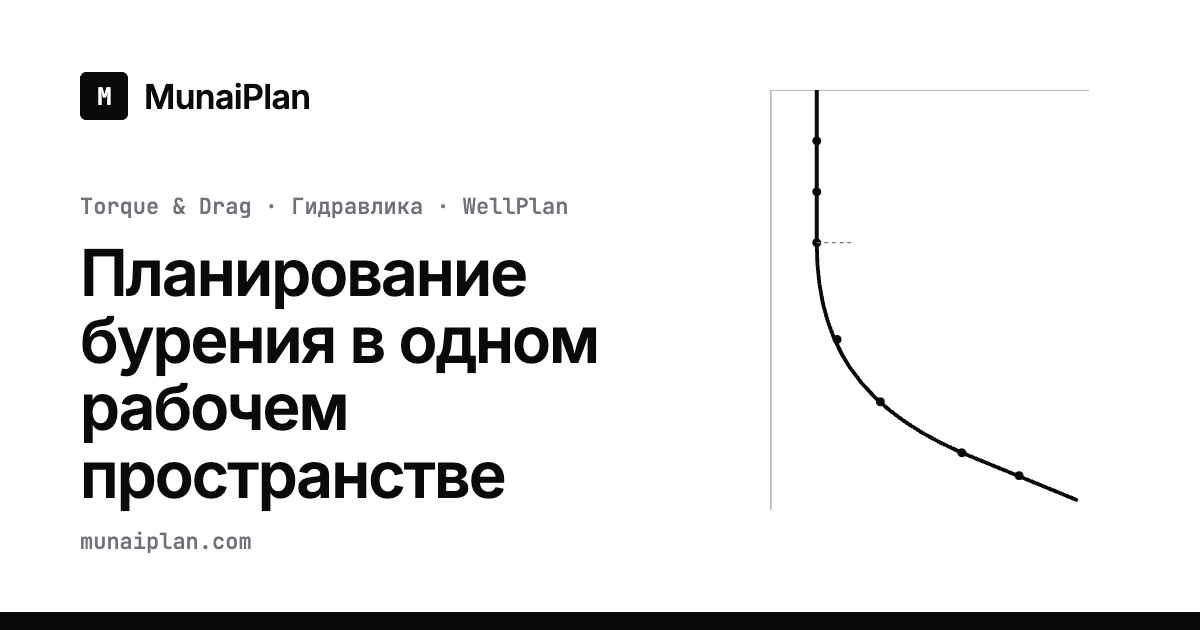
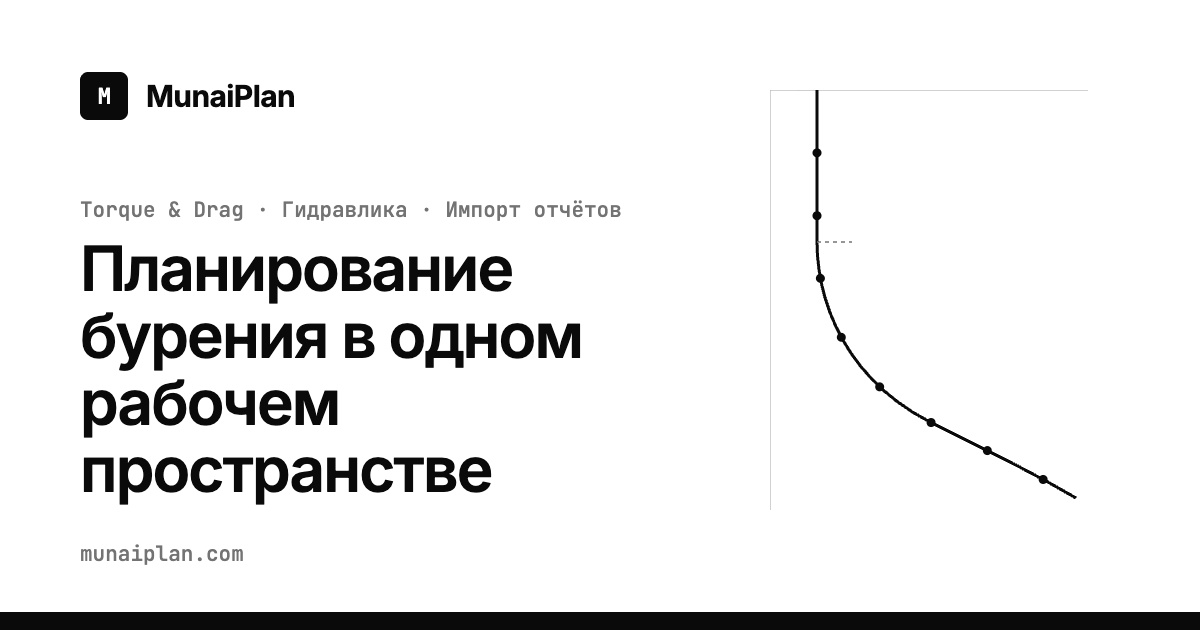
Remove the WellPlan brand from the site
Neutral wording everywhere users look (landing page, navigation, case tabs, tables, hints,
meta tags, social image). The import page keeps one factual line about the supported file
format plus a trademark disclaimer. Internal identifiers and API paths are unchanged.
scripts/og-image.html is now the source of public/og-image.png.

diff --git a/src/features/landing/LandingPage.tsx b/src/features/landing/LandingPage.tsx
@@ -18,7 +18,7 @@ const features = [
     text: 'Компания, месторождение, куст, скважина, ствол, дизайн, траектория и кейс — в одном дереве. Проводник как в IDE: поиск, контекстное меню, навигация с клавиатуры.',
   },
   {
-    title: 'Импорт из WellPlan',
+    title: 'Импорт отчётов',
     text: 'Отчёты .docx на русском и английском и экспорт инклинометрии .txt. Сначала предпросмотр, затем импорт: траектория, колонна, ствол и раствор создаются автоматически.',
   },
   {
@@ -26,12 +26,12 @@ const features = [
     text: 'Прогнозы ML-моделей по глубине: вес на крюке, момент, минимальный вес на долоте и эффективное натяжение — для спуска, подъёма, бурения ротором и ГЗД.',
   },
   {
-    title: 'Сравнение с WellPlan',
-    text: 'Для импортированных кейсов результаты WellPlan сохраняются как эталон и показываются рядом с прогнозом модели, с отклонением в процентах.',
+    title: 'Сравнение с эталоном',
+    text: 'Для импортированных кейсов результаты расчёта из исходного отчёта сохраняются как эталон и показываются рядом с прогнозом модели, с отклонением в процентах.',
   },
   {
     title: 'Гидравлика',
-    text: 'Собственный расчёт в разработке. Пока для импортированных кейсов показаны параметры гидравлики из отчёта WellPlan — для справки.',
+    text: 'Собственный расчёт в разработке. Пока для импортированных кейсов показаны параметры гидравлики из исходного отчёта — для справки.',
   },
   {
     title: 'Данные организации',
@@ -46,11 +46,11 @@ const audiences = [
   },
   {
     title: 'Операторы и буровые подрядчики Казахстана',
-    text: 'Интерфейс на русском языке и метрические единицы WellPlan: м, мм, кг/м, °.',
+    text: 'Интерфейс на русском языке и метрические единицы: м, мм, кг/м, °.',
   },
   {
-    title: 'Команды, работающие в WellPlan',
-    text: 'Отчёты переносятся импортом, а эталонные результаты остаются рядом с кейсом для сравнения.',
+    title: 'Команды с готовыми инженерными отчётами',
+    text: 'Существующие отчёты переносятся импортом, а эталонные результаты остаются рядом с кейсом для сравнения.',
   },
 ];
 
@@ -99,13 +99,13 @@ const LandingPage = () => (
       <section aria-labelledby="hero-title" className="border-b border-ink-200">
         <div className="mx-auto grid max-w-6xl items-center gap-10 px-4 py-12 sm:px-6 sm:py-16 lg:grid-cols-[1.05fr_1fr] lg:gap-14 lg:py-24">
           <div>
-            <p className="font-mono text-xs text-ink-500">Torque &amp; Drag · Гидравлика · WellPlan</p>
+            <p className="font-mono text-xs text-ink-500">Torque &amp; Drag · Гидравлика · Импорт отчётов</p>
             <h1 id="hero-title" className="mt-4 text-4xl font-semibold leading-[1.05] tracking-tight sm:text-5xl lg:text-6xl">
               Планирование бурения в одном рабочем пространстве
             </h1>
             <p className="mt-5 max-w-xl text-base leading-relaxed text-ink-700 sm:text-lg">
-              MunaiPlan хранит иерархию скважин, импортирует отчёты WellPlan и строит прогнозы Torque &amp; Drag
-              с помощью ML-моделей — рядом с эталонными результатами WellPlan.
+              MunaiPlan хранит иерархию скважин, импортирует инженерные отчёты и строит прогнозы Torque &amp; Drag
+              с помощью ML-моделей — рядом с эталонными результатами из этих отчётов.
             </p>
             <div className="mt-8 flex flex-col gap-3 sm:flex-row">
               <Link to="/auth" className={primaryCta}>Войти <FiArrowRight aria-hidden="true" /></Link>
@@ -162,8 +162,8 @@ const LandingPage = () => (
           </div>
           <div className="space-y-4 text-sm leading-relaxed text-paper/80 sm:text-base">
             <p>
-              Модели Torque &amp; Drag дают оценку, а не проверенный инженерный расчёт. Первое сравнение с результатами
-              WellPlan — это проверка согласованности, а не валидация: на части кейсов расхождение значительное.
+              Модели Torque &amp; Drag дают оценку, а не проверенный инженерный расчёт. Первое сравнение с эталонными
+              результатами из импортированных отчётов — это проверка согласованности, а не валидация: на части кейсов расхождение значительное.
             </p>
             <p>
               Поэтому каждый прогноз в приложении помечен как невалидированный. Используйте его как ориентир и не

diff --git a/src/pages/ImportPage.tsx b/src/pages/ImportPage.tsx
@@ -65,8 +65,8 @@ const PreviewSummary: FC<{ preview: ImportPreview }> = ({ preview }) => {
         </Panel>
       )}
       {loads.length > 0 && (
-        <Panel title="Результаты WellPlan (эталон)" description="Сохраняются вместе с кейсом для сравнения с прогнозом MunaiPlan." bodyClassName="p-0">
-          <DataTable columns={loadColumns} rows={loads} rowKey={(l) => l.operation} caption="Результаты WellPlan" />
+        <Panel title="Эталонные результаты из отчёта" description="Сохраняются вместе с кейсом для сравнения с прогнозом MunaiPlan." bodyClassName="p-0">
+          <DataTable columns={loadColumns} rows={loads} rowKey={(l) => l.operation} caption="Эталонные результаты" />
         </Panel>
       )}
       {report.warnings.length > 0 && (
@@ -114,13 +114,13 @@ const ImportPage: FC = () => {
   const hasFiles = Boolean(files.report || files.survey);
   return (
     <div className="mx-auto max-w-5xl space-y-5 p-4 md:p-6">
-      <PageHeader eyebrow="Данные" title="Импорт из WellPlan"
-        meta="Отчёт WellPlan (.docx, рус./англ.) и/или экспорт инклинометрии (.txt). Значения сохраняются в единицах WellPlan: м, мм, кг/м, °, psi." />
+      <PageHeader eyebrow="Данные" title="Импорт отчёта"
+        meta="Отчёт в формате WellPlan™ (.docx, рус./англ.) и/или экспорт инклинометрии (.txt). Значения сохраняются в метрических единицах: м, мм, кг/м, °, psi." />
       <Panel>
         <div className="grid grid-cols-1 gap-5 md:grid-cols-2">
-          <FileDrop label="Отчёт WellPlan" accept=".docx" file={files.report} onChange={choose('report')}
+          <FileDrop label="Отчёт (.docx)" accept=".docx" file={files.report} onChange={choose('report')}
             hint="Колонна, ствол, раствор, траектория и результаты Torque & Drag." />
-          <FileDrop label="Инклинометрия WellPlan" accept=".txt" file={files.survey} onChange={choose('survey')}
+          <FileDrop label="Инклинометрия (.txt)" accept=".txt" file={files.survey} onChange={choose('survey')}
             hint="Нужна, если в отчёте нет траектории. Добавляет абс. отметки и координаты." />
         </div>
         {error && <Alert className="mt-4" tone="error">{error}</Alert>}
@@ -135,6 +135,10 @@ const ImportPage: FC = () => {
         </div>
       </Panel>
       {preview && <PreviewSummary preview={preview} />}
+      <p className="text-xs text-ink-500">
+        WellPlan — товарный знак соответствующего правообладателя. MunaiPlan не связан с ним и не одобрен им;
+        формат поддерживается только для переноса ваших собственных данных.
+      </p>
     </div>
   );
 };

diff --git a/mock/fixtures.ts b/mock/fixtures.ts
@@ -62,12 +62,12 @@ export const records: Record<string, Record<string, unknown>> = {
   [ids.design]: { id: ids.design, plan_name: 'План #1', stage: 'Проект', version: '1', actual_date: '2026-09-30T00:00:00Z' },
   [ids.trajectory]: { id: ids.trajectory, name: 'Проект 2400 м', description: 'J-образный профиль, набор 3°/30 м', headers: [
     { id: id(90), customer: 'Демо Бурение', project: 'Северное', profile_type: 'J', field: 'Северное', your_ref: '', structure: 'Куст 12', job_number: '', wellhead: 'Скв. 12-1', kelly_bushing_elev: -19, profile: 'Проект' }], units: survey },
-  [ids.caseImported]: { id: ids.caseImported, case_name: 'Секция 215,9 мм', case_description: 'Imported from WellPlan', drill_depth: 2400, pipe_size: 127, is_complete: true },
+  [ids.caseImported]: { id: ids.caseImported, case_name: 'Секция 215,9 мм', case_description: 'Импортировано из отчёта', drill_depth: 2400, pipe_size: 127, is_complete: true },
   [ids.caseManual]: { id: ids.caseManual, case_name: 'Секция 152,4 мм (черновик)', case_description: 'Заполняется вручную', drill_depth: 0, pipe_size: 0, is_complete: false },
 };
 
 export const reference = {
-  sources: [{ name: 'WellPlan_Report_demo.docx', kind: 'report', bytes: 1_650_000 }],
+  sources: [{ name: 'report_demo.docx', kind: 'report', bytes: 1_650_000 }],
   language: 'ru',
   case: { company: 'Демо Бурение', field: 'Северное', site: 'Куст 12', well: 'Скв. 12-1', wellbore: 'Основной ствол', design: 'План #1', case: 'Секция 215,9 мм', md: 2400, tvd: 1928 },
   survey, hole_sections: [{ type: 'Casing', depth: 1000, inner_diameter: 226.7, friction_factor: 0.25 }, { type: 'Open Hole', depth: 2400, inner_diameter: 215.9, friction_factor: 0.3 }],
@@ -114,7 +114,7 @@ export const organizations = [
 
 /** Case inputs of the imported demo case, in the shapes of /strings, /holes and /fluids. */
 export const caseChildren: Record<string, unknown[]> = {
-  strings: [{ id: id(800), name: 'WellPlan work string', depth: 2400, sections: [
+  strings: [{ id: id(800), name: 'Рабочая колонна (импорт)', depth: 2400, sections: [
     { id: id(801), type: 'Drill Pipe', body_md: 2190, body_length: 2190, body_od: 127, body_id: 108.61, avg_joint_length: 9.14, stabilizer_length: 0.433, stabilizer_od: 152.4, stabilizer_id: 82.55, weight: 32.62, grade: 'X', min_yield_strength: 105000 },
     { id: id(802), type: 'Heavy Weight', body_md: 2370, body_length: 180, body_od: 127, body_id: 76.2, avg_joint_length: 9.14, stabilizer_length: 1.219, stabilizer_od: 165.1, stabilizer_id: 76.2, weight: 73.13, grade: '1340 MOD', min_yield_strength: 55000 },
     { id: id(803), type: 'Mud Motor', body_md: 2400, body_length: 30, body_od: 171.45, body_id: 76.2, avg_joint_length: 9.71, weight: 103.53, grade: '4145H MOD', min_yield_strength: 110000 },

diff --git a/scripts/og-image.html b/scripts/og-image.html
@@ -1,0 +1,47 @@
+<!doctype html>
+<!-- Source of public/og-image.png (1200×630). Regenerate with:
+     "/Applications/Google Chrome.app/Contents/MacOS/Google Chrome" --headless=new --hide-scrollbars \
+       --window-size=1200,630 --screenshot=public/og-image.png scripts/og-image.html -->
+<html lang="ru">
+<head>
+<meta charset="utf-8">
+<link rel="preconnect" href="https://fonts.googleapis.com">
+<link href="https://fonts.googleapis.com/css2?family=Inter:wght@600;700&family=JetBrains+Mono:wght@500;700&display=block" rel="stylesheet">
+<style>
+  html, body { margin: 0; width: 1200px; height: 630px; overflow: hidden; background: #fff; color: #0a0a0a; }
+  body { position: relative; font-family: Inter, sans-serif; }
+  .brand { position: absolute; left: 80px; top: 72px; display: flex; align-items: center; gap: 18px; font-size: 30px; font-weight: 700; letter-spacing: -0.02em; }
+  .mark { width: 48px; height: 48px; border-radius: 8px; background: #0a0a0a; color: #fff; display: grid; place-items: center; font: 700 22px 'JetBrains Mono', monospace; }
+  .eyebrow { position: absolute; left: 80px; top: 196px; font: 500 21px 'JetBrains Mono', monospace; color: #737373; }
+  h1 { position: absolute; left: 80px; top: 236px; margin: 0; width: 600px; font-size: 62px; line-height: 1.08; font-weight: 600; letter-spacing: -0.03em; }
+  .url { position: absolute; left: 80px; top: 540px; font: 500 21px 'JetBrains Mono', monospace; color: #737373; }
+  svg { position: absolute; left: 770px; top: 90px; }
+  .bar { position: absolute; left: 0; right: 0; bottom: 0; height: 18px; background: #0a0a0a; }
+</style>
+</head>
+<body>
+  <div class="brand"><div class="mark">M</div>MunaiPlan</div>
+  <div class="eyebrow">Torque &amp; Drag · Гидравлика · Импорт отчётов</div>
+  <h1>Планирование бурения в одном рабочем пространстве</h1>
+  <div class="url">munaiplan.com</div>
+  <svg width="320" height="420" viewBox="0 0 320 420" fill="none">
+    <path d="M0 0H318" stroke="#bdbdbd" stroke-width="1.5"/>
+    <path d="M0 0V420" stroke="#bdbdbd" stroke-width="1.5"/>
+    <path id="well" d="M47 0V152C47 215 78 290 160 332C212 358 262 382 306 408" stroke="#0a0a0a" stroke-width="3"/>
+    <path d="M47 152H82" stroke="#737373" stroke-width="1.5" stroke-dasharray="4 4"/>
+    <g id="stations" fill="#0a0a0a"></g>
+  </svg>
+  <div class="bar"></div>
+  <script>
+    // Survey stations: evenly spaced along the drawn trajectory.
+    const well = document.getElementById('well'), g = document.getElementById('stations');
+    const total = well.getTotalLength();
+    for (let i = 1; i <= 8; i++) {
+      const pt = well.getPointAtLength((total * i) / 8.6);
+      const c = document.createElementNS('http://www.w3.org/2000/svg', 'circle');
+      c.setAttribute('cx', pt.x); c.setAttribute('cy', pt.y); c.setAttribute('r', 4.5);
+      g.appendChild(c);
+    }
+  </script>
+</body>
+</html>

diff --git a/src/features/torque-drag/WellPlanComparison.tsx b/src/features/torque-drag/WellPlanComparison.tsx
@@ -62,21 +62,21 @@ const WellPlanComparison: FC<{ caseId: string }> = ({ caseId }) => {
   useEffect(() => { load(); }, [load]);
 
   if (state.loading) return <Loading label="Расчёт и сравнение… (до минуты)" />;
-  if (state.missing) return <EmptyState title="Нет данных WellPlan" description="Сравнение доступно для кейсов, импортированных из отчёта WellPlan." />;
+  if (state.missing) return <EmptyState title="Нет эталонных данных" description="Сравнение доступно для импортированных кейсов: эталоном служат результаты из исходного отчёта." />;
   if (!state.data) return <PredictionStatus error={state.error} onRetry={load} />;
 
   const rows = state.data.rows.filter((r) => r.wellplan !== null && !(r.metric === 'surface_torque' && r.wellplan === 0));
   const columns: Column<ComparisonRow>[] = [
     { key: 'op', header: 'Операция', render: (r) => operationLabels[r.operation] ?? r.operation },
     { key: 'metric', header: 'Показатель', render: (r) => <>{metricLabels[r.metric]} <span className="text-ink-500">{metricUnits[r.metric]}</span></> },
-    { key: 'wp', header: 'WellPlan', numeric: true, render: (r) => fmt(r.wellplan) },
+    { key: 'wp', header: 'Отчёт', numeric: true, render: (r) => fmt(r.wellplan) },
     { key: 'model', header: 'Модель', numeric: true, render: (r) => fmt(r.model) },
     { key: 'dev', header: 'Отклонение', numeric: true, render: (r) => <Deviation rel={r.relative_difference} /> },
   ];
   return (
     <div className="space-y-4">
-      <Panel title="Модель и WellPlan" description={`Глубина долота ${fmt(state.data.bit_depth)} м`} bodyClassName="p-0">
-        <DataTable columns={columns} rows={rows} rowKey={(r) => `${r.operation}-${r.metric}`} caption="Сравнение с WellPlan" />
+      <Panel title="Модель и эталон из отчёта" description={`Глубина долота ${fmt(state.data.bit_depth)} м`} bodyClassName="p-0">
+        <DataTable columns={columns} rows={rows} rowKey={(r) => `${r.operation}-${r.metric}`} caption="Сравнение с отчётом" />
       </Panel>
       <Alert tone="info" title="Как читать">
         <ul className="list-disc space-y-1 pl-4">

diff --git a/index.html b/index.html
@@ -4,7 +4,7 @@
     <meta charset="UTF-8" />
     <meta name="viewport" content="width=device-width, initial-scale=1.0" />
     <title>MunaiPlan — планирование бурения: Torque &amp; Drag и гидравлика</title>
-    <meta name="description" content="Рабочее пространство буровых инженеров: иерархия скважин, импорт отчётов WellPlan (.docx, .txt), прогнозы Torque &amp; Drag на ML-моделях и сравнение с результатами WellPlan. Доступ выдаёт администратор." />
+    <meta name="description" content="Рабочее пространство буровых инженеров: иерархия скважин, импорт инженерных отчётов (.docx, .txt), прогнозы Torque &amp; Drag на ML-моделях и сравнение с эталонными результатами. Доступ выдаёт администратор." />
     <link rel="canonical" href="https://munaiplan.com/" />
     <link rel="icon" type="image/svg+xml" href="/favicon.svg" />
     <link rel="apple-touch-icon" href="/apple-touch-icon.png" />
@@ -15,7 +15,7 @@
     <meta property="og:locale" content="ru_RU" />
     <meta property="og:url" content="https://munaiplan.com/" />
     <meta property="og:title" content="MunaiPlan — планирование бурения: Torque &amp; Drag и гидравлика" />
-    <meta property="og:description" content="Иерархия скважин, импорт отчётов WellPlan, прогнозы Torque &amp; Drag на ML-моделях и сравнение с результатами WellPlan." />
+    <meta property="og:description" content="Иерархия скважин, импорт инженерных отчётов, прогнозы Torque &amp; Drag на ML-моделях и сравнение с эталонными результатами." />
     <meta property="og:image" content="https://munaiplan.com/og-image.png" />
     <meta property="og:image:width" content="1200" />
     <meta property="og:image:height" content="630" />

diff --git a/src/features/case/HydraulicsPanel.tsx b/src/features/case/HydraulicsPanel.tsx
@@ -10,14 +10,14 @@ export const HydraulicsPanel = ({ caseId }: { caseId: string }) => {
   return (
     <div className="space-y-5">
       <Alert tone="info" title="Модуль гидравлики MunaiPlan в разработке">
-        Расчёт гидравлики пока не реализован. Для кейсов, импортированных из WellPlan, ниже показаны результаты самого WellPlan — только для справки.
+        Расчёт гидравлики пока не реализован. Для импортированных кейсов ниже показаны результаты из исходного отчёта — только для справки.
       </Alert>
       {entries.length === 0 && !fluid ? (
-        <EmptyState title="Нет данных гидравлики" description="Импортируйте отчёт WellPlan с разделом «Гидравлика», чтобы увидеть эталонные значения." />
+        <EmptyState title="Нет данных гидравлики" description="Импортируйте отчёт с разделом «Гидравлика», чтобы увидеть эталонные значения." />
       ) : (
         <>
           {fluid && (
-            <Panel title="Буровой раствор (WellPlan)">
+            <Panel title="Буровой раствор (из отчёта)">
               <KeyValue columns={3} items={[
                 { label: 'Раствор', value: fluid.name },
                 { label: 'Плотность', value: fluid.density, unit: 'кг/м³' },
@@ -27,7 +27,7 @@ export const HydraulicsPanel = ({ caseId }: { caseId: string }) => {
             </Panel>
           )}
           {entries.length > 0 && (
-            <Panel title="Параметры долота и насоса (WellPlan)">
+            <Panel title="Параметры долота и насоса (из отчёта)">
               <KeyValue items={entries.map(([label, value]) => ({ label, value }))} />
             </Panel>
           )}

diff --git a/src/features/trajectory/TrajectoryForm.tsx b/src/features/trajectory/TrajectoryForm.tsx
@@ -112,7 +112,7 @@ export const TrajectoryForm = ({ designId, initial, onSaved, onCancel }: {
           <TextAreaField label="Описание" containerClassName="md:col-span-2" value={description} onChange={(e) => setDescription(e.target.value)} />
         </div>
         <details className="mt-4">
-          <summary className="cursor-pointer text-xs font-medium text-ink-700">Заголовок WellPlan (необязательно)</summary>
+          <summary className="cursor-pointer text-xs font-medium text-ink-700">Заголовок отчёта (необязательно)</summary>
           <div className="mt-3 grid grid-cols-1 gap-4 md:grid-cols-3">
             {headerFields.map(([k, label]) => (
               <TextField key={k} label={label} value={header[k]} onChange={(e) => setHeader({ ...header, [k]: e.target.value })} />
@@ -121,7 +121,7 @@ export const TrajectoryForm = ({ designId, initial, onSaved, onCancel }: {
         </details>
       </Panel>
 
-      <Panel title="Инклинометрия" description="Вставьте строки из WellPlan или Excel (Ctrl+V в любую ячейку MD) — столбцы в порядке таблицы. На узком экране таблица прокручивается вбок."
+      <Panel title="Инклинометрия" description="Вставьте строки из отчёта или Excel (Ctrl+V в любую ячейку MD) — столбцы в порядке таблицы. На узком экране таблица прокручивается вбок."
         actions={<Button size="sm" icon={<FiPlus />} onClick={() => setRows((rs) => [...rs, emptyRow()])}>Строка</Button>} bodyClassName="p-0">
         <div className="thin-scrollbar max-h-[28rem] overflow-auto">
           <table className="w-full border-collapse text-xs">

diff --git a/src/pages/HomePage.tsx b/src/pages/HomePage.tsx
@@ -31,7 +31,7 @@ const Home: FC = () => {
     <div className="mx-auto max-w-5xl space-y-6 p-4 md:p-6">
       <PageHeader eyebrow="Рабочая область" title="Обзор"
         actions={<>
-          <Button size="sm" icon={<FiUploadCloud />} onClick={() => navigate('/import')}>Импорт из WellPlan</Button>
+          <Button size="sm" icon={<FiUploadCloud />} onClick={() => navigate('/import')}>Импорт отчёта</Button>
           <Button size="sm" variant="primary" icon={<FiPlus />} onClick={() => navigate('/new/company')}>Новая компания</Button>
         </>} />
       <div className="grid grid-cols-2 gap-3 md:grid-cols-4">
@@ -43,7 +43,7 @@ const Home: FC = () => {
         ))}
       </div>
       {tree.length === 0 ? (
-        <EmptyState title="Рабочая область пуста" description="Создайте компанию вручную или импортируйте кейс из отчёта WellPlan — иерархия будет создана автоматически."
+        <EmptyState title="Рабочая область пуста" description="Создайте компанию вручную или импортируйте кейс из отчёта — иерархия будет создана автоматически."
           action={<div className="flex flex-wrap justify-center gap-2"><Button icon={<FiUploadCloud />} onClick={() => navigate('/import')}>Импорт</Button>
             <Button variant="primary" icon={<FiPlus />} onClick={() => navigate('/new/company')}>Новая компания</Button></div>} />
       ) : (

diff --git a/src/features/case/StringForm.tsx b/src/features/case/StringForm.tsx
@@ -105,7 +105,7 @@ export const StringForm = ({ caseId, initial, onSaved, onCancel }: {
           <TextField label="Глубина (по сумме длин)" unit="м" value={(bottoms.at(-1) ?? 0).toLocaleString('ru-RU')} readOnly className="num text-right font-mono" />
         </div>
       </Panel>
-      <Panel title="Элементы (сверху вниз)" description="Можно вставить строки таблицы колонны из отчёта WellPlan (Ctrl+V в ячейку «Элемент»). Низ элемента вычисляется автоматически."
+      <Panel title="Элементы (сверху вниз)" description="Можно вставить строки таблицы колонны из отчёта (Ctrl+V в ячейку «Элемент»). Низ элемента вычисляется автоматически."
         actions={<Button size="sm" icon={<FiPlus />} onClick={() => setRows((rs) => [...rs, blank()])}>Элемент</Button>} bodyClassName="p-0">
         <div className="thin-scrollbar overflow-x-auto">
           <table className="w-full border-collapse text-xs">

diff --git a/src/components/PredictionStatus.tsx b/src/components/PredictionStatus.tsx
@@ -7,7 +7,7 @@ export const PredictionStatus: FC<{ error: PredictionError | null; onRetry: () =
   <Alert tone={error?.status === 422 ? 'warning' : 'error'} title={error?.message ?? 'Нет данных для отображения.'}
     action={error?.status !== 422 ? <Button size="sm" onClick={onRetry}>Повторить</Button> : undefined}>
     {error && error.problems.length > 0 && <ul className="list-disc space-y-0.5 pl-4">{error.problems.map((p) => <li key={p}>{p}</li>)}</ul>}
-    {error?.status === 422 && <p className="mt-2 text-ink-500">Заполните данные кейса на вкладках «Ствол» и «Колонна» или импортируйте кейс из WellPlan.</p>}
+    {error?.status === 422 && <p className="mt-2 text-ink-500">Заполните данные кейса на вкладках «Ствол» и «Колонна» или импортируйте кейс из отчёта.</p>}
   </Alert>
 );
 

diff --git a/src/pages/Auth.tsx b/src/pages/Auth.tsx
@@ -59,7 +59,7 @@ const Auth: FC = () => {
         </svg>
         <div className="relative max-w-sm">
           <p className="text-3xl font-semibold leading-tight tracking-tight">Планирование бурения: Torque &amp; Drag и гидравлика.</p>
-          <p className="mt-3 text-sm text-paper/60">Импорт кейсов WellPlan, расчёт нагрузок и сравнение с эталоном — в одном рабочем пространстве.</p>
+          <p className="mt-3 text-sm text-paper/60">Импорт инженерных отчётов, расчёт нагрузок и сравнение с эталоном — в одном рабочем пространстве.</p>
         </div>
         <p className="relative text-2xs text-paper/40">Прогнозы ML-модели не валидированы для инженерных решений.</p>
       </aside>
